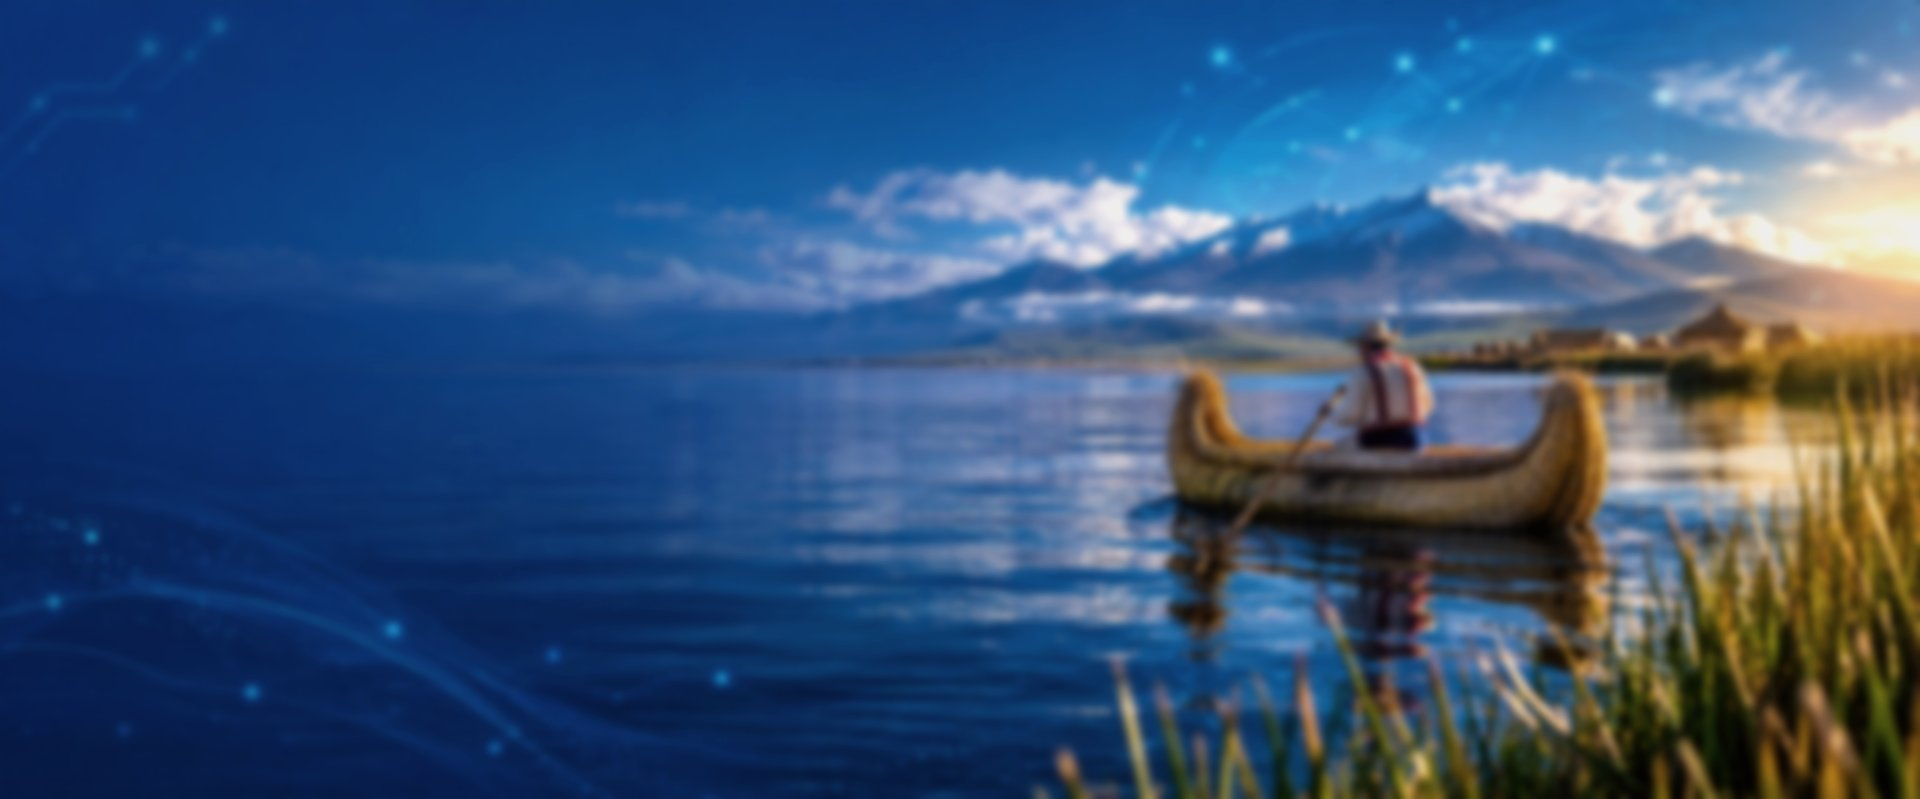
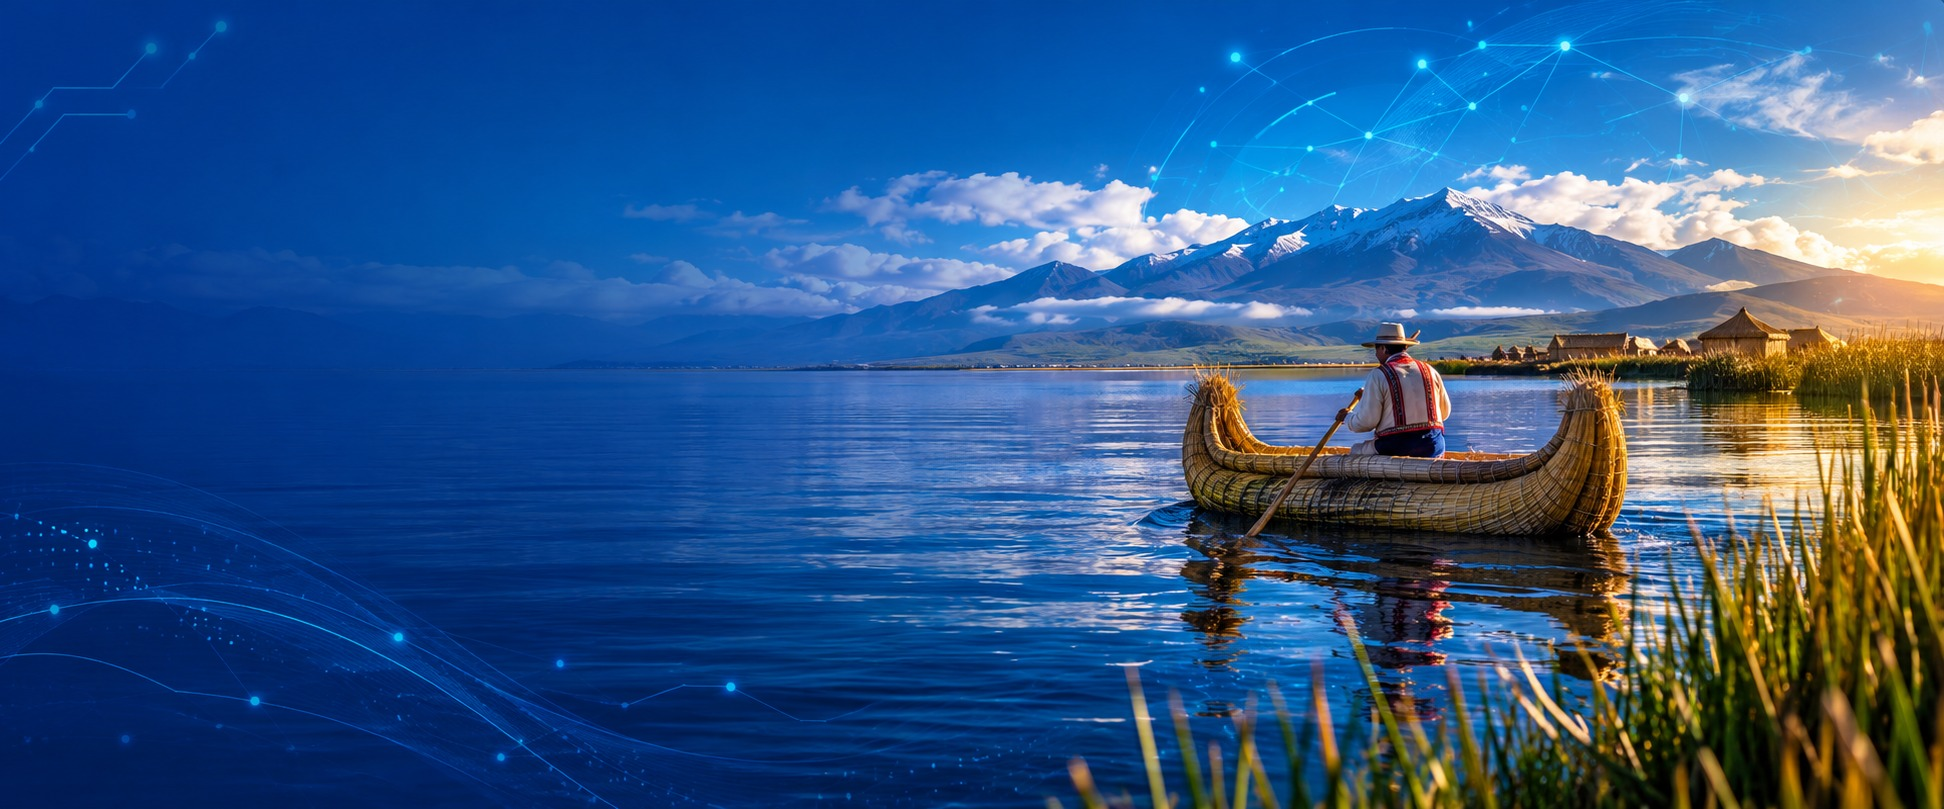
style(coinsi2026): sustituir portada por version original nitida del lago y suavizar degradado para resaltar el paisaje

diff --git a/coinsi2026/index.html b/coinsi2026/index.html
@@ -10,7 +10,7 @@
     <link rel="preconnect" href="https://fonts.googleapis.com">
     <link rel="preconnect" href="https://fonts.gstatic.com" crossorigin>
     <link href="https://fonts.googleapis.com/css2?family=Montserrat:wght@400;500;600;700&family=Inter:wght@400;500;600;700&display=swap" rel="stylesheet">
-    <link rel="stylesheet" href="styles.css?v=3">
+    <link rel="stylesheet" href="styles.css?v=4">
 </head>
 <body>
     <a class="skip-link" href="#contenido">Saltar al contenido</a>
@@ -47,15 +47,9 @@
     </header>
 
     <main id="contenido">
-        <!-- ============================================================
-             PORTADA
-             La imagen de fondo está difuminada y lleva un degradado
-             oscuro cálido para que el texto se lea sin esfuerzo.
-             ============================================================ -->
         <section class="hero" id="inicio">
-            <!-- Imagen de portada provisional: Titicaca difuminado. Reemplazar por la imagen oficial si se define. -->
             <div class="hero-media" aria-hidden="true">
-                <img src="imagenes/portada.jpg" alt="">
+                <img src="imagenes/portada.jpg?v=2" alt="Lago Titicaca y entorno de Puno">
             </div>
 
             <div class="wrap hero-inner">

diff --git a/coinsi2026/styles.css b/coinsi2026/styles.css
@@ -413,19 +413,20 @@ section[id] {
     height: 100%;
     object-fit: cover;
     object-position: center 42%;
-    filter: brightness(1.14) contrast(1.05); /* Fondo de portada claro y nítido */
+    filter: brightness(1.08) contrast(1.06); /* Foto original nítida sin desenfoque */
 }
 
 .hero-media::after {
     content: '';
     position: absolute;
     inset: 0;
-    /* Degradado limpio que deja ver la foto con total claridad */
+    /* Degradado direccional: protege la lectura del texto en la izquierda y deja libre y clara la foto en el centro y derecha */
     background: linear-gradient(
         to right,
-        rgba(15, 23, 42, 0.78) 0%,
-        rgba(15, 23, 42, 0.45) 55%,
-        rgba(15, 23, 42, 0.12) 100%
+        rgba(15, 23, 42, 0.72) 0%,
+        rgba(15, 23, 42, 0.40) 45%,
+        rgba(15, 23, 42, 0.08) 80%,
+        transparent 100%
     );
 }
 
